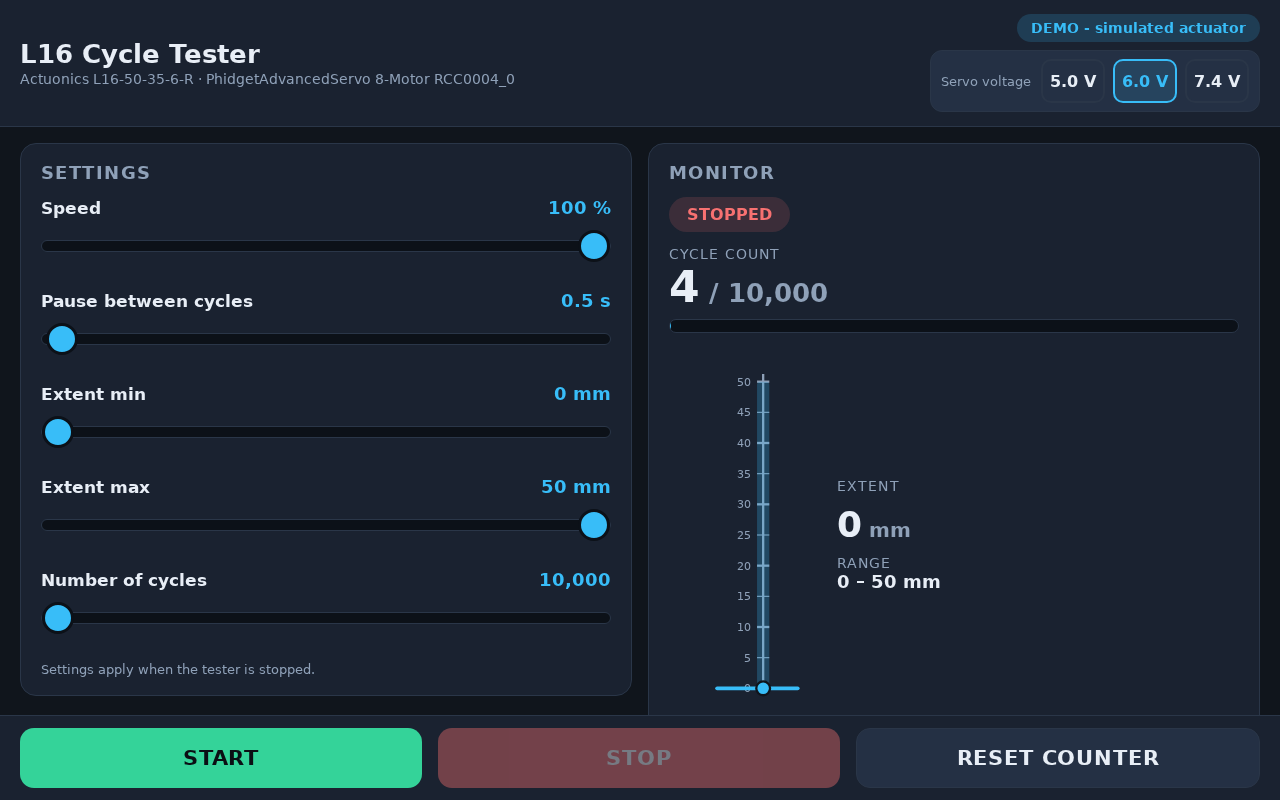
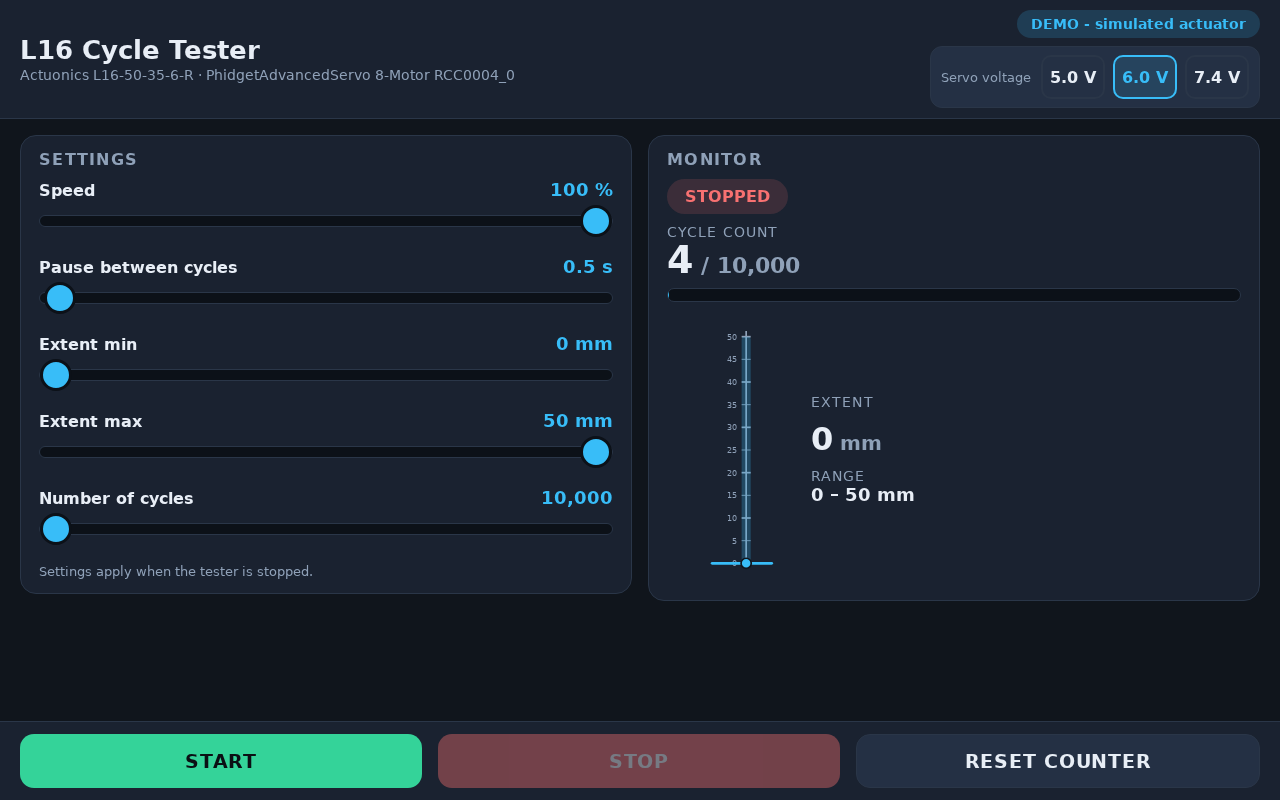
Shrink gauge/counter/controls so panels fit above the button bar without overlap; regenerate demo PNGs/GIF

diff --git a/static/style.css b/static/style.css
@@ -31,12 +31,13 @@ body {
 }
 
 header {
+  flex: 0 0 auto;
   display: flex;
   flex-wrap: wrap;
-  gap: 12px;
+  gap: 10px;
   align-items: center;
   justify-content: space-between;
-  padding: 14px 20px;
+  padding: 10px 20px;
   background: var(--panel);
   border-bottom: 1px solid var(--panel-edge);
 }
@@ -106,27 +107,29 @@ main {
   background: var(--panel);
   border: 1px solid var(--panel-edge);
   border-radius: 16px;
-  padding: 18px 20px;
+  padding: 14px 18px;
+  min-height: 0;
+  overflow: auto;
 }
 
-.panel h2 { margin: 0 0 14px; font-size: 18px; color: var(--muted); text-transform: uppercase; letter-spacing: 0.08em; }
+.panel h2 { margin: 0 0 10px; font-size: 16px; color: var(--muted); text-transform: uppercase; letter-spacing: 0.08em; }
 
-.slider-row { margin-bottom: 18px; }
+.slider-row { margin-bottom: 12px; }
 
 .slider-row label {
   display: flex;
   justify-content: space-between;
   align-items: baseline;
-  font-size: 17px;
+  font-size: 16px;
   font-weight: 600;
-  margin-bottom: 6px;
+  margin-bottom: 2px;
 }
 
 .slider-row output { color: var(--accent); font-variant-numeric: tabular-nums; font-size: 18px; }
 
 input[type="range"] {
   width: 100%;
-  height: 44px;
+  height: 38px;
   margin: 0;
   background: transparent;
   -webkit-appearance: none;
@@ -166,7 +169,7 @@ input[type="range"]::-moz-range-thumb {
 
 .hint { color: var(--muted); font-size: 13px; }
 
-.status-row { display: flex; gap: 12px; align-items: center; flex-wrap: wrap; margin-bottom: 14px; }
+.status-row { display: flex; gap: 12px; align-items: center; flex-wrap: wrap; margin-bottom: 10px; }
 
 #status-pill { font-size: 16px; padding: 8px 18px; }
 
@@ -180,10 +183,10 @@ input[type="range"]::-moz-range-thumb {
   max-width: 100%;
 }
 
-.counter { margin-bottom: 18px; }
+.counter { margin-bottom: 12px; }
 .counter-label { color: var(--muted); font-size: 14px; text-transform: uppercase; letter-spacing: 0.08em; }
-.counter-value { font-size: 44px; font-weight: 800; font-variant-numeric: tabular-nums; line-height: 1.15; }
-.counter-target { color: var(--muted); font-size: 26px; font-weight: 600; }
+.counter-value { font-size: 38px; font-weight: 800; font-variant-numeric: tabular-nums; line-height: 1.1; }
+.counter-target { color: var(--muted); font-size: 22px; font-weight: 600; }
 
 .progress {
   height: 14px;
@@ -195,12 +198,12 @@ input[type="range"]::-moz-range-thumb {
 }
 #progress-bar { height: 100%; width: 0%; background: var(--accent); transition: width 0.2s linear; }
 
-.gauge-row { display: flex; gap: 18px; align-items: center; }
-#gauge { width: 150px; height: 480px; max-height: 46vh; flex: 0 0 auto; }
+.gauge-row { display: flex; gap: 14px; align-items: center; }
+#gauge { width: 130px; height: 480px; max-height: 34vh; flex: 0 0 auto; }
 
 .gauge-side { display: flex; flex-direction: column; gap: 10px; }
 .pos-label, .range-label { color: var(--muted); font-size: 14px; text-transform: uppercase; letter-spacing: 0.08em; }
-.pos-value { font-size: 36px; font-weight: 800; font-variant-numeric: tabular-nums; }
+.pos-value { font-size: 32px; font-weight: 800; font-variant-numeric: tabular-nums; }
 .pos-value .unit { font-size: 20px; color: var(--muted); font-weight: 600; }
 #range-out { color: var(--text); font-size: 18px; font-weight: 700; text-transform: none; letter-spacing: 0; }
 
@@ -215,8 +218,8 @@ input[type="range"]::-moz-range-thumb {
 
 .btn {
   flex: 1;
-  min-height: 60px;
-  font-size: 21px;
+  min-height: 54px;
+  font-size: 19px;
   font-weight: 800;
   letter-spacing: 0.04em;
   border-radius: 14px;
